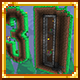
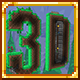
Fixed issue where UI scalling makes input not project properly.
- Possibly fixes #31
- Changed Icon

diff --git a/Input/Cursor3D.cs b/Input/Cursor3D.cs
@@ -16,8 +16,7 @@ namespace Terraria3D
 
         public static Vector2 Get3DScreenPos(Camera camera, Matrix modelMatrix)
         {
-            var mousePos = new Vector2(Main.mouseX, Main.mouseY);
-            return Get3DScreenPos(camera, mousePos, modelMatrix);
+            return Get3DScreenPos(camera, Main.MouseScreen * Main.UIScale, modelMatrix);
         }
 
         public static Vector2 Get3DScreenPos(Camera camera, Vector2 mousePos, Matrix modelMatrix)
@@ -31,7 +30,7 @@ namespace Terraria3D
 
             // Find intersection with front plane
             SetTilePlanDistance(solidLayer.Depth, solidLayer.ZPos, modelMatrix);
-            var ray = camera.ScreenPointToRay(new Vector2(Main.mouseX, Main.mouseY));
+            var ray = camera.ScreenPointToRay(new Vector2(mousePos.X, mousePos.Y));
             var invMatrix = Matrix.Invert(modelMatrix);
 
             var intersectPos = GetPlaneIntersectOnScreen(ray, _tilePlane, invMatrix);
